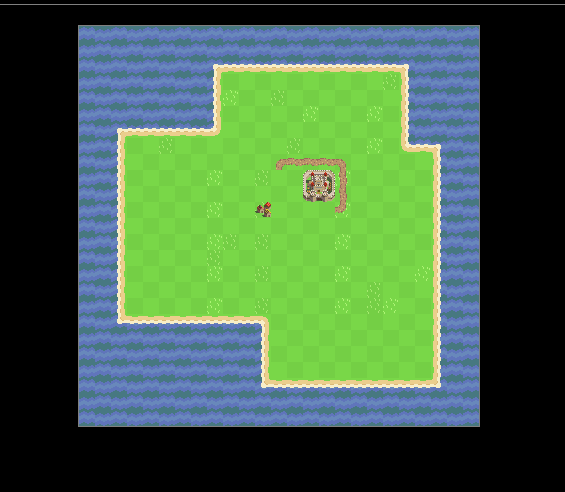
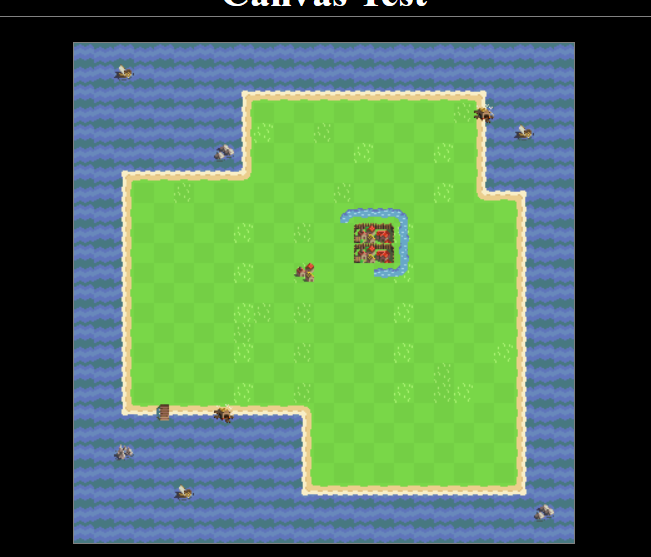
fixed Math.round to Math.floor in drawTile function

diff --git a/canvas.js b/canvas.js
@@ -31,8 +31,7 @@ var map = {
 				  170, 171, 170, 171, 170, 171, 170, 171, 170, 171, 170, 171, 170, 171, 170, 171, 170, 171, 170, 171, 170, 171, 170, 171, 170,
 				  171, 170, 171, 170, 171, 170, 171, 170, 171, 170, 171, 170, 171, 170, 171, 170, 171, 170, 171, 170, 171, 170, 171, 170, 171],
 				  
-	land_tiles: [ 
-				  null, null, null, null, null, null, null, null, null, null, null, null, null, null, null, null, null, null, null, null, null, null, null, null, null,
+	land_tiles: [ null, null, null, null, null, null, null, null, null, null, null, null, null, null, null, null, null, null, null, null, null, null, null, null, null,
 				  null, null, null, null, null, null, null, null, null, null, null, null, null, null, null, null, null, null, null, null, null, null, null, null, null,
 				  null, null, null, null, null, null, null, null, 196, 197, 197, 197, 197, 197, 197, 197, 197, 197, 197, 197, 198, null, null, null, null,
 				  null, null, null, null, null, null, null, null, 203, 0, 1, 0, 1, 0, 1, 0, 1, 0, 1, 2, 205, null, null, null, null,
@@ -58,49 +57,51 @@ var map = {
 				  null, null, null, null, null, null, null, null, null, null, null, null, null, null, null, null, null, null, null, null, null, null, null, null, null,
 				  null, null, null, null, null, null, null, null, null, null, null, null, null, null, null, null, null, null, null, null, null, null, null, null, null,],
 				  
-		object_tiles: [ null, null, null, null, null, null, null, null, null, null, null, null, null, null, null, null, null, null, null, null, null, null, null, null, null,
-				  null, null, null, null, null, null, null, null, null, null, null, null, null, null, null, null, null, null, null, null, null, null, null, null, null,
+		object_tiles: [ 
+					null, null, null, null, null, null, null, null, null, null, null, null, null, null, null, null, null, null, null, null, null, null, null, null, null,
+					null, null, 195, null, null, null, null, null, null, null, null, null, null, null, null, null, null, null, null, null, null, null, null, null, null,
 				  null, null, null, null, null, null, null, null, null, null, null, null,null, null, null, null, null, null, null, null, null, null, null, null, null,
-				  null, null, null, null, null, null, null, null, null, 0, 1, 0, 1, 0, 1, 0, 1, 0, 1, 2, null, null, null, null, null,
-				  null, null, null, null, null, null, null, null, 203, 3, 0, 1, 2, 1, 0, 1, 0, 1, 0, 1, null, null, null, null, null,
-				  null, null, null, null, null, null, null, null, 203, 0, 1, 0, 1, 0, 3, 0, 1, 0, 3, 0, null, null, null, null, null,
-				  null, null, 196, 197, 197, 197, 197, 197, 191, 1, 0, 1, 0, 1, 0, 1, 0, 1, 0, 1, null, null, null, null, null,
-				  null, null, 203, 0, 1, 2, 1, 0, 1, 0, 1, 0, 1, 2, 1, 0, 1, 0, 3, 0, 189, 197, null, null, null,
-				  null, null, 203, 1, 0, 1, 0, 1, 0, 1, 0, 1, 70, 71, 71, 71, 72, 1, 0, 1, 0, 1, null, null, null,
-				  null, null, 203, 0, 1, 0, 1, 0, 3, 0, 1, 2, 1, 0, 46, 47, 79, 0, 1, 0, 1, 0, null, null, null,
-				  null, null, 203, 1, 0, 1, 0, 1, 0, 1, 0, 1, 0, 1, 53, 54, 79, 1, 0, 1, 0, 1, null, null, null, 
-				  null, null, 203, 0, 1, 0, 1, 0, 3, 0, 1, 21, 1, 0, 1, 0, 86, 0, 1, 0, 1, 0, null, null, null, 
-				  null, null, 203, 1, 0, 1, 0, 1, 0, 1, 0, 1, 0, 1, 0, 1, 0, 1, 0, 1, 0, 1, null, null, null,
-				  null, null, 203, 0, 1, 0, 1, 0, 3, 2, 1, 2, 1, 0, 1, 0, 3, 0, 1, 0, 1, 0, 205, null, null,
-				  null, null, 203, 1, 0, 1, 0, 1, 2, 1, 0, 1, 0, 1, 0, 1, 0, 1, 0, 1, 0, 1, 205, null, null, 
-				  null, null, 203, 0, 1, 0, 1, 0, 3, 0, 1, 2, 1, 0, 1, 0, 3, 0, 1, 0, 1, 3, 205, null, null,
-				  null, null, 203, 1, 0, 1, 0, 1, 0, 1, 0, 1, 0, 1, 0, 1, 0, 1, 2, 1, 0, 1, 205, null, null,
-				  null, null, 203, 0, 1, 0, 1, 0, 3, 0, 1, 2, 1, 0, 1, 0, 3, 0, 2, 3, 1, 0, 205, null, null,
-				  null, null, 210, 211, 211, 211, 211, 211, 211, 211, 211, 177, 0, 1, 0, 1, 0, 1, 0, 1, 0, 1, 205, null, null, null,
-				  null, null, null, null, null, null, null, null, null, null, 203, 1, 0, 1, 0, 1, 0, 1, 0, 1, 0, 205, null, null, null,
-				  null, null, null, null, null, null, null, null, null, null, 203, 0, 1, 0, 1, 0, 1, 0, 1, 0, 1, 205, null, null, null,
-				  null, null, null, null, null, null, null, null, null, null, 203, 1, 0, 1, 0, 1, 0, 1, 0, 1, 0, 205, null, null, null,
-				  null, null, null, null, null, null, null, null, null, null, 210, 211, 211, 211, 211, 211, 211, 211, 211, 211, 211, 212, null, null, null,
-				  null, null, null, null, null, null, null, null, null, null, null, null, null, null, null, null, null, null, null, null, null, null, null, null, null,
+				  null, null, null, null, null, null, null, null, null, 0, 1, 0, 1, 0, 1, 0, 1, 0, 1, 2, 188, null, null, null, null,
+				  null, null, null, null, null, null, null, null, null, 3, 0, 1, 2, 1, 0, 1, 0, 1, 0, 1, null, null, 195, null, null,
+				  null, null, null, null, null, null, null, 238, null, 0, 1, 0, 1, 0, 3, 0, 1, 0, 3, 0, null, null, null, null, null,
+				  null, null, null, null, null, null, null, null, null, 1, 0, 1, 0, 1, 0, 1, 0, 1, 0, 1, null, null, null, null, null,
+				  null, null, null, 0, 1, 2, 1, 0, 1, 0, 1, 0, 1, 2, 1, 0, 1, 0, 3, 0, null, null, null, null, null,
+				  null, null, null, 1, 0, 1, 0, 1, 0, 1, 0, 1, 0, 91, 92, 92, 93, 1, 0, 1, 0, 1, null, null, null,
+				  null, null, null, 0, 1, 0, 1, 0, 3, 0, 1, 2, 1, 0, 51, 52, 100, 0, 1, 0, 1, 0, null, null, null,
+				  null, null, null, 1, 0, 1, 0, 1, 0, 1, 0, 1, 0, 1, 51, 52, 100, 1, 0, 1, 0, 1, null, null, null, 
+				  null, null, null, 0, 1, 0, 1, 0, 3, 0, 1, 21, 1, 0, 1, 92, 107, 0, 1, 0, 1, 0, null, null, null, 
+				  null, null, null, 1, 0, 1, 0, 1, 0, 1, 0, 1, 0, 1, 0, 1, 0, 1, 0, 1, 0, 1, null, null, null,
+				  null, null, null, 0, 1, 0, 1, 0, 3, 2, 1, 2, 1, 0, 1, 0, 3, 0, 1, 0, 1, 0, null, null, null,
+				  null, null, null, 1, 0, 1, 0, 1, 2, 1, 0, 1, 0, 1, 0, 1, 0, 1, 0, 1, 0, 1, null, null, null, 
+				  null, null, null, 0, 1, 0, 1, 0, 3, 0, 1, 2, 1, 0, 1, 0, 3, 0, 1, 0, 1, 3, null, null, null,
+				  null, null, null, 1, 0, 1, 0, 1, 0, 1, 0, 1, 0, 1, 0, 1, 0, 1, 2, 1, 0, 1, null, null, null,
+				  null, null, null, 0, 1, 0, 1, 0, 3, 0, 1, 2, 1, 0, 1, 0, 3, 0, 2, 3, 1, 0, null, null, null,
+				  null, null, null, null, 241, null, null, 188, null, null, null, null, 0, 1, 0, 1, 0, 1, 0, 1, 0, 1, null, null, null,
+					null, null, null, null, null, null, null, null, null, null, null, null, 1, 0, 1, 0, 1, 0, 1, 0, 1, 0, null, null, null,
+				  null, null, 239, null, null, null, null, null, null, null, null, null, 0, 1, 0, 1, 0, 1, 0, 1, 0, 1, null, null, null,
+				  null, null, null, null, null, null, null, null, null, null, null, null, 1, 0, 1, 0, 1, 0, 1, 0, 1, 0, null, null, null,
+				  null, null, null, null, null, 195, null, null, null, null, null, null, null, null, null, null, null, null, null, null, null, null, null, null, null,
+				  null, null, null, null, null, null, null, null, null, null, null, null, null, null, null, null, null, null, null, null, null, null, null, 238, null,
 				  null, null, null, null, null, null, null, null, null, null, null, null, null, null, null, null, null, null, null, null, null, null, null, null, null],
 	
 	getTile: function(arr, row, col){
-		if(arr === "water_tiles") {
+		if(arr === "water") {
 			return this.water_tiles[row * map.cols + col];
-		} else if(arr === "land_tiles") {
+		} else if(arr === "land") {
 			return this.land_tiles[row * map.cols + col];
-		} else if(arr === "object_tiles") {
+		} else if(arr === "object") {
 			return this.object_tiles[row * map.cols + col];
 		}
 		
 	},
 	
-	// row and column specify the desired location of the tile
+	// tile: number
+	//row and column: specify the desired location of the tile
 	drawTile: function(tile, col, row) {
 		var frame = document.getElementById('window');
 		var ctx = frame.getContext('2d');
 		// find source row and column position
-		var r = Math.round(tile / 7);
+		var r = Math.floor(tile / 7);
 		var c = tile % 7;
 		var x = c * map.tsize;
 		var y = r * map.tsize;
@@ -123,13 +124,13 @@ function setUp() {
 	var ctx = frame.getContext('2d');
 	for(var col = 0; col < map.cols; col++) {
 		for(var row = 0; row < map.rows; row++) {
-			var tile = map.getTile("water_tiles", col, row);
+			var tile = map.getTile("water", col, row);
 			map.drawTile(tile, col, row);
-			tile = map.getTile("land_tiles", col, row);
+			tile = map.getTile("land", col, row);
 			if(tile !== null) {
 				map.drawTile(tile, col, row);
 			}	
-			tile = map.getTile("object_tiles", col, row);
+			tile = map.getTile("object", col, row);
 			if(tile !== null) {
 				map.drawTile(tile, col, row);
 			}
